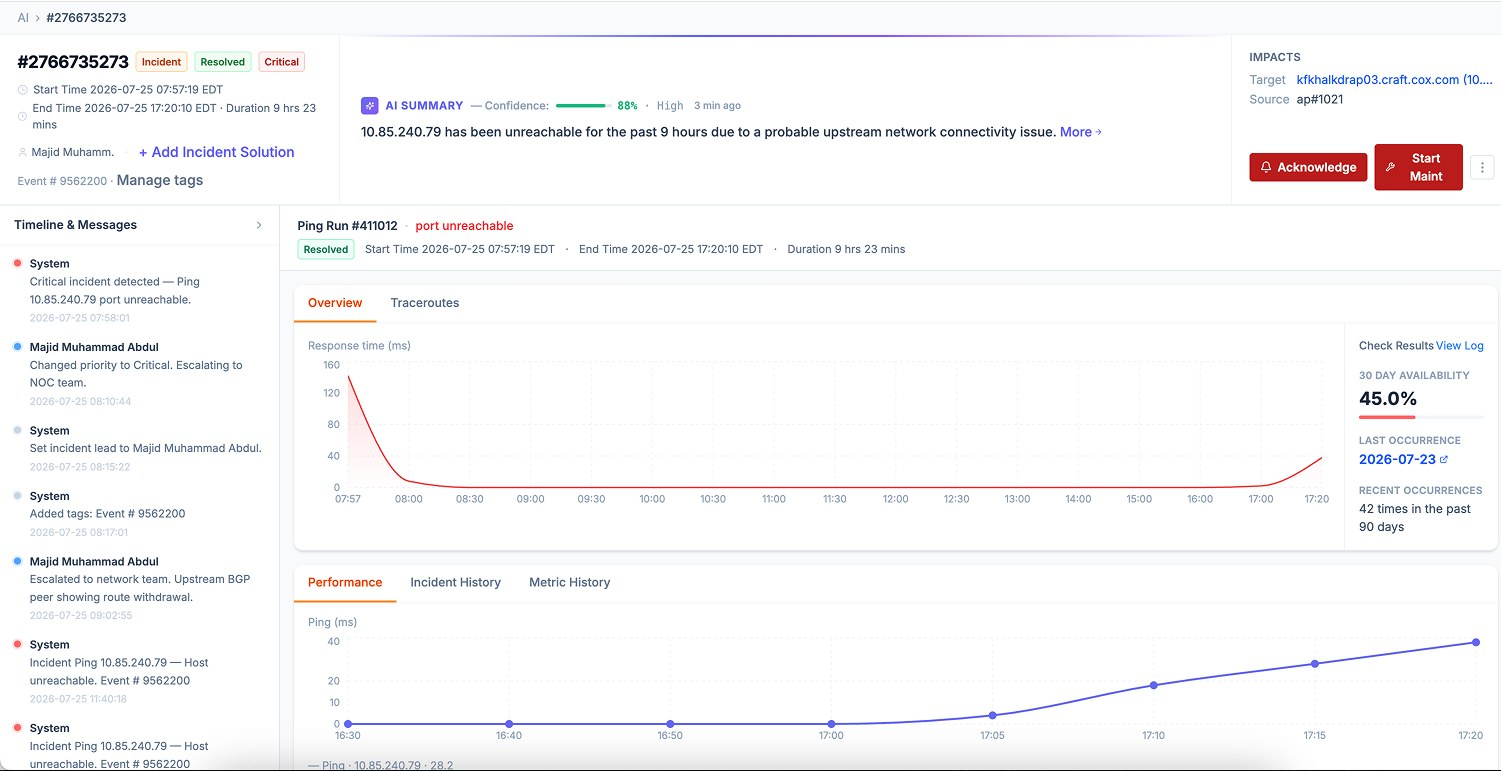
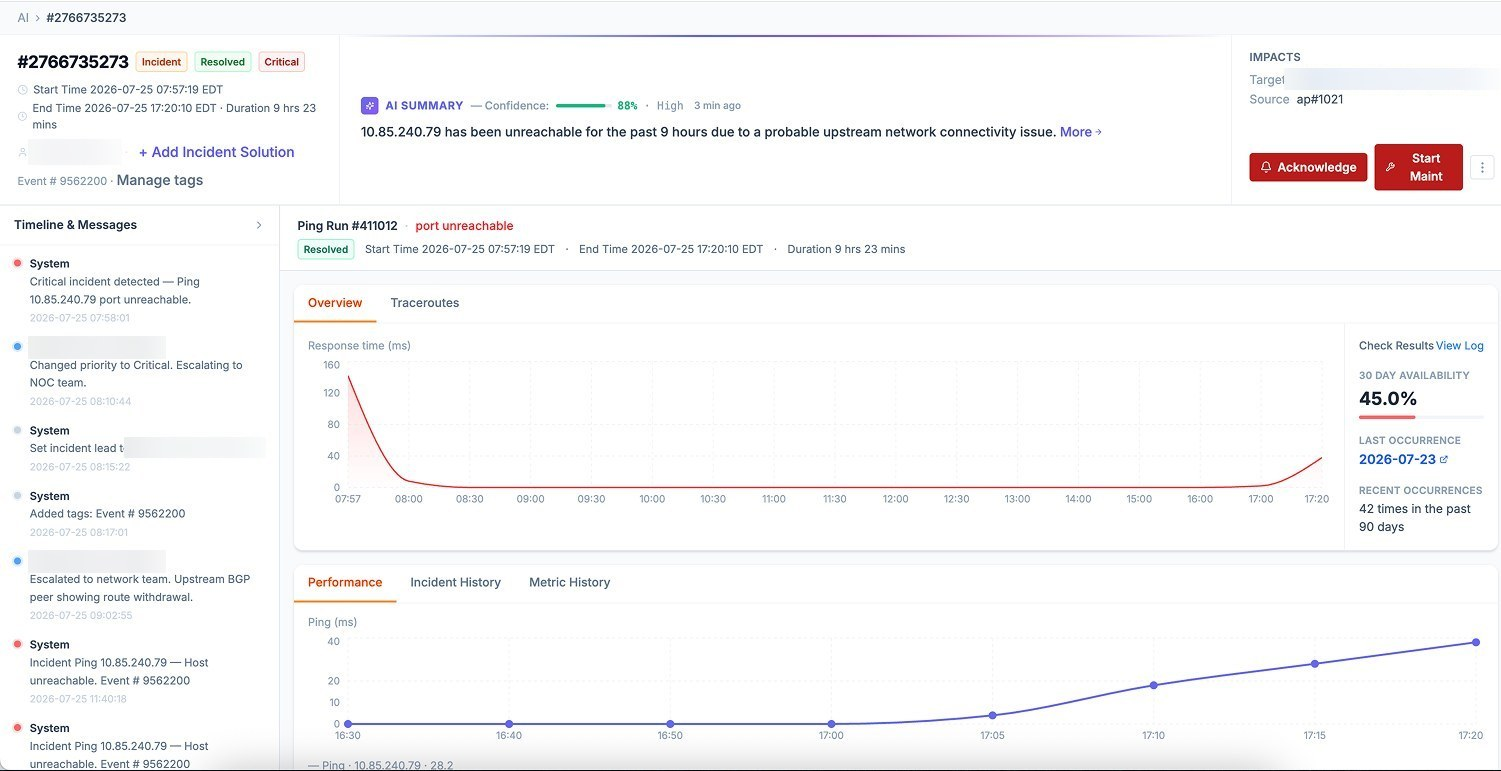
Add files via upload

diff --git a/fortimonitor-ai-incident.html b/fortimonitor-ai-incident.html
@@ -20,7 +20,7 @@
     <nav>
       <a href="index.html#work">Work</a>
       <a href="about.html">About</a>
-      <a href="Garima_Kalra_Resume.pdf" target="_blank" rel="noopener">Résumé<svg class="ext" viewBox="0 0 24 24" fill="none" stroke="currentColor" stroke-width="2" stroke-linecap="round" stroke-linejoin="round" aria-hidden="true"><path d="M18 13v6a2 2 0 0 1-2 2H5a2 2 0 0 1-2-2V8a2 2 0 0 1 2-2h6"/><polyline points="15 3 21 3 21 9"/><line x1="10" y1="14" x2="21" y2="3"/></svg></a>
+      <a href="Garima_Kalra_Resume.pdf" target="_blank" rel="noopener">Resume<svg class="ext" viewBox="0 0 24 24" fill="none" stroke="currentColor" stroke-width="2" stroke-linecap="round" stroke-linejoin="round" aria-hidden="true"><path d="M18 13v6a2 2 0 0 1-2 2H5a2 2 0 0 1-2-2V8a2 2 0 0 1 2-2h6"/><polyline points="15 3 21 3 21 9"/><line x1="10" y1="14" x2="21" y2="3"/></svg></a>
     </nav>
   </div>
 </div>
@@ -65,7 +65,7 @@
       <p>An AI Investigator embedded in the incident page that synthesizes a summary, timeline, evidence and next steps — with facts and AI hypotheses visibly separated.</p>
     </div>
     <div class="tldr-col">
-      <h4>The staff-level bet</h4>
+      <h4>The bet</h4>
       <p>Chose <strong>calibrated assistance over automation</strong>. The AI investigates; the human decides. Trust is the feature, not the risk.</p>
     </div>
   </div>
@@ -93,13 +93,16 @@
       </div>
       <div class="stat">
         <div class="n">10k<span class="u">s</span></div>
-        <div class="k">of monitored devices per<br>large customer (TJX, CSX)</div>
+        <div class="k">of monitored devices per<br>large enterprise customer</div>
       </div>
       <div class="stat">
         <div class="n">"Whack<span class="u">-a-mole"</span></div>
         <div class="k">round-robin firefighting where<br>root causes go unaddressed</div>
       </div>
     </div>
+
+    <img class="shot reveal" src="fmia-incident-volume.jpg" alt="A FortiMonitor Network Infrastructure dashboard for a single enterprise customer showing 364 active incidents, 3 resolved, and 6,764 monitored devices, with an Incidents navigation badge of 384">
+    <div class="caption reveal">A single enterprise customer's live dashboard — <strong>364 active incidents</strong> across <strong>6,764 monitored devices</strong>. This is the volume a human is expected to triage.</div>
   </div>
 </section>
 
@@ -201,6 +204,12 @@
         <p>A polished, interactive interface. Attention shifted to <strong>information hierarchy and interaction</strong> — panel size, section order, timeline presentation, confidence indicators, and how clearly AI output was distinguished from raw telemetry. The concept was assumed; adoption details surfaced.</p>
       </div>
     </div>
+
+    <img class="shot reveal" src="fmia-lofi.jpg" alt="Lo-fi prototype — two incident-page mockups with the AI Investigator panel spec'd out in plain content blocks: overview, confidence, business impact, an evidence checklist, and related incidents">
+    <div class="caption reveal">Lo-fi — the panel's content and order, spec'd in plain blocks and tested before any visual polish.</div>
+
+    <img class="shot reveal" src="fmia-hifi.jpg" alt="Hi-fi prototype — the polished incident page with the AI Investigation panel open beside it: AI summary, 88% confidence, sourced evidence cards tagged Critical / High / Info / Resolved, and recommended next steps">
+    <div class="caption reveal">Hi-fi — the polished, interactive version taken into the second round of testing.</div>
 
     <div class="read reveal">
       <p style="margin-top:34px;">The two fidelities weren't redundant — they answered different questions. The lo-fi validated <em>whether the problem was worth solving</em> before I invested in craft; the hi-fi exposed the <em>presentation and trust details</em> that would decide adoption. That's the whole argument for prototyping at two fidelities, and I got to see it play out cleanly.</p>

diff --git a/fortimonitor-ia.html b/fortimonitor-ia.html
@@ -20,7 +20,7 @@
     <nav>
       <a href="index.html#work">Work</a>
       <a href="about.html">About</a>
-      <a href="Garima_Kalra_Resume.pdf" target="_blank" rel="noopener">Résumé<svg class="ext" viewBox="0 0 24 24" fill="none" stroke="currentColor" stroke-width="2" stroke-linecap="round" stroke-linejoin="round" aria-hidden="true"><path d="M18 13v6a2 2 0 0 1-2 2H5a2 2 0 0 1-2-2V8a2 2 0 0 1 2-2h6"/><polyline points="15 3 21 3 21 9"/><line x1="10" y1="14" x2="21" y2="3"/></svg></a>
+      <a href="Garima_Kalra_Resume.pdf" target="_blank" rel="noopener">Resume<svg class="ext" viewBox="0 0 24 24" fill="none" stroke="currentColor" stroke-width="2" stroke-linecap="round" stroke-linejoin="round" aria-hidden="true"><path d="M18 13v6a2 2 0 0 1-2 2H5a2 2 0 0 1-2-2V8a2 2 0 0 1 2-2h6"/><polyline points="15 3 21 3 21 9"/><line x1="10" y1="14" x2="21" y2="3"/></svg></a>
     </nav>
   </div>
 </div>
@@ -86,12 +86,12 @@
       <p>After Fortinet acquired Panopta, the product had to scale — but <strong>navigation was the #1 user complaint:</strong> long, overlapping menus, items buried far from what they related to, and a Settings menu swollen into a 13-item junk drawer.</p>
     </div>
     <div class="tldr-col">
-      <h4>The move</h4>
-      <p><strong>Run IA as a research-led effort, in parallel with the roadmap.</strong> Re-architect navigation around what users are trying to <em>do</em>, grounding every call in card sorting and tree testing.</p>
+      <h4>What I designed</h4>
+      <p><strong>A task-based navigation structure</strong>, re-architected around what users are trying to <em>do</em> — validated with real users through card sorting and tree testing, and shipped to enterprise customers.</p>
     </div>
     <div class="tldr-col">
-      <h4>The outcome</h4>
-      <p><strong>A task-based structure that shipped to enterprise customers</strong> — validated with real users through in-product testing, and well received.</p>
+      <h4>The bet</h4>
+      <p>Ran IA as a <strong>research-led effort, in parallel with the roadmap</strong> — trusting that structure earned through testing would outlast a faster reorg by opinion.</p>
     </div>
   </div>
 </div>

diff --git a/ascendon.html b/ascendon.html
@@ -19,7 +19,7 @@
     <nav>
       <a href="index.html#work">Work</a>
       <a href="about.html">About</a>
-      <a href="Garima_Kalra_Resume.pdf" target="_blank" rel="noopener">Résumé<svg class="ext" viewBox="0 0 24 24" fill="none" stroke="currentColor" stroke-width="2" stroke-linecap="round" stroke-linejoin="round" aria-hidden="true"><path d="M18 13v6a2 2 0 0 1-2 2H5a2 2 0 0 1-2-2V8a2 2 0 0 1 2-2h6"/><polyline points="15 3 21 3 21 9"/><line x1="10" y1="14" x2="21" y2="3"/></svg></a>
+      <a href="Garima_Kalra_Resume.pdf" target="_blank" rel="noopener">Resume<svg class="ext" viewBox="0 0 24 24" fill="none" stroke="currentColor" stroke-width="2" stroke-linecap="round" stroke-linejoin="round" aria-hidden="true"><path d="M18 13v6a2 2 0 0 1-2 2H5a2 2 0 0 1-2-2V8a2 2 0 0 1 2-2h6"/><polyline points="15 3 21 3 21 9"/><line x1="10" y1="14" x2="21" y2="3"/></svg></a>
     </nav>
   </div>
 </div>
@@ -38,6 +38,24 @@
     </div>
   </div>
 </header>
+
+<!-- TL;DR -->
+<div class="tldr">
+  <div class="wrap">
+    <div class="tldr-col">
+      <h4>The problem</h4>
+      <p>A decade-old Silverlight platform had to become a modern SaaS product — at <strong>100% feature parity</strong> — while the legacy UX was punishing: users lost in nested catalog workflows, and a call center run on hand-made cheat-sheets.</p>
+    </div>
+    <div class="tldr-col">
+      <h4>What I designed</h4>
+      <p>The <strong>Offers catalog workflow</strong> and the <strong>Customer Care dashboard</strong> — rebuilt for the web with orientation, breadcrumbs, and a shared source of truth, matching every legacy capability.</p>
+    </div>
+    <div class="tldr-col">
+      <h4>The bet</h4>
+      <p>Parity didn't mean re-skinning the old flows. I treated the users' own <strong>workarounds</strong> — cheat-sheets, a taped-up error-decoder — as the brief for what to actually fix.</p>
+    </div>
+  </div>
+</div>
 
 <!-- 01 OVERVIEW -->
 <section id="overview">

diff --git a/driverconnect.html b/driverconnect.html
@@ -19,7 +19,7 @@
     <nav>
       <a href="index.html#work">Work</a>
       <a href="about.html">About</a>
-      <a href="Garima_Kalra_Resume.pdf" target="_blank" rel="noopener">Résumé<svg class="ext" viewBox="0 0 24 24" fill="none" stroke="currentColor" stroke-width="2" stroke-linecap="round" stroke-linejoin="round" aria-hidden="true"><path d="M18 13v6a2 2 0 0 1-2 2H5a2 2 0 0 1-2-2V8a2 2 0 0 1 2-2h6"/><polyline points="15 3 21 3 21 9"/><line x1="10" y1="14" x2="21" y2="3"/></svg></a>
+      <a href="Garima_Kalra_Resume.pdf" target="_blank" rel="noopener">Resume<svg class="ext" viewBox="0 0 24 24" fill="none" stroke="currentColor" stroke-width="2" stroke-linecap="round" stroke-linejoin="round" aria-hidden="true"><path d="M18 13v6a2 2 0 0 1-2 2H5a2 2 0 0 1-2-2V8a2 2 0 0 1 2-2h6"/><polyline points="15 3 21 3 21 9"/><line x1="10" y1="14" x2="21" y2="3"/></svg></a>
     </nav>
   </div>
 </div>
@@ -38,6 +38,24 @@
     </div>
   </div>
 </header>
+
+<!-- TL;DR -->
+<div class="tldr">
+  <div class="wrap">
+    <div class="tldr-col">
+      <h4>The problem</h4>
+      <p>ELD onboarding was fragmented: drivers created duplicate accounts, skipped the <strong>compliance config</strong> that keeps logs legal, and got lost pairing a device — then a passive tutorial dropped them on their own.</p>
+    </div>
+    <div class="tldr-col">
+      <h4>What I designed</h4>
+      <p>A <strong>task-driven onboarding flow</strong> that sequences setup in the right order and pulls company data automatically — replacing the static tour with guided steps.</p>
+    </div>
+    <div class="tldr-col">
+      <h4>The bet</h4>
+      <p>Sequence everything around the <strong>DOT number</strong>: enter one ID and the company details pull themselves — cutting setup tickets 50% and reaching 100% adoption.</p>
+    </div>
+  </div>
+</div>
 
 <!-- 01 OVERVIEW -->
 <section id="overview">

diff --git a/casestudy.css b/casestudy.css
@@ -103,3 +103,17 @@ em{font-style:italic;}
 
 /* consistent gap between the section eyebrow and its headline (matches AI-incident page) */
 .eyebrow{margin-bottom:16px;}
+
+/* ---------- TL;DR summary band (below hero) — identical to FortiMonitor pages ---------- */
+.tldr{background:var(--surface);border-top:1px solid var(--line);border-bottom:1px solid var(--line);}
+.tldr .wrap{display:grid;grid-template-columns:1fr 1fr 1fr;gap:0;}
+.tldr-col{padding:14px 34px 14px 0;border-right:1px solid var(--line-2);}
+.tldr-col:last-child{border-right:none;padding-right:0;padding-left:34px;}
+.tldr-col:nth-child(2){padding-left:34px;}
+.tldr-col h4{font-family:"JetBrains Mono",monospace;font-size:11.5px;font-weight:500;letter-spacing:.14em;text-transform:uppercase;color:var(--muted);margin-bottom:12px;}
+.tldr-col p{font-size:17px;line-height:1.5;margin:0;color:var(--ink-2);}
+.tldr-col p strong{color:var(--ink);}
+@media(max-width:820px){.tldr .wrap{grid-template-columns:1fr;}
+  .tldr-col{border-right:none;border-bottom:1px solid var(--line-2);padding:22px 0;}
+  .tldr-col:last-child,.tldr-col:nth-child(2){padding-left:0;}
+  .tldr-col:last-child{border-bottom:none;}}

diff --git a/about.html b/about.html
@@ -29,7 +29,7 @@
     <nav>
       <a href="index.html#work">Work</a>
       <a href="about.html">About</a>
-      <a href="Garima_Kalra_Resume.pdf" target="_blank" rel="noopener">Résumé<svg class="ext" viewBox="0 0 24 24" fill="none" stroke="currentColor" stroke-width="2" stroke-linecap="round" stroke-linejoin="round" aria-hidden="true"><path d="M18 13v6a2 2 0 0 1-2 2H5a2 2 0 0 1-2-2V8a2 2 0 0 1 2-2h6"/><polyline points="15 3 21 3 21 9"/><line x1="10" y1="14" x2="21" y2="3"/></svg></a>
+      <a href="Garima_Kalra_Resume.pdf" target="_blank" rel="noopener">Resume<svg class="ext" viewBox="0 0 24 24" fill="none" stroke="currentColor" stroke-width="2" stroke-linecap="round" stroke-linejoin="round" aria-hidden="true"><path d="M18 13v6a2 2 0 0 1-2 2H5a2 2 0 0 1-2-2V8a2 2 0 0 1 2-2h6"/><polyline points="15 3 21 3 21 9"/><line x1="10" y1="14" x2="21" y2="3"/></svg></a>
     </nav>
   </div>
 </div>

diff --git a/index.html b/index.html
@@ -19,7 +19,7 @@
     <nav>
       <a href="index.html#work">Work</a>
       <a href="about.html">About</a>
-      <a href="Garima_Kalra_Resume.pdf" target="_blank" rel="noopener">Résumé<svg class="ext" viewBox="0 0 24 24" fill="none" stroke="currentColor" stroke-width="2" stroke-linecap="round" stroke-linejoin="round" aria-hidden="true"><path d="M18 13v6a2 2 0 0 1-2 2H5a2 2 0 0 1-2-2V8a2 2 0 0 1 2-2h6"/><polyline points="15 3 21 3 21 9"/><line x1="10" y1="14" x2="21" y2="3"/></svg></a>
+      <a href="Garima_Kalra_Resume.pdf" target="_blank" rel="noopener">Resume<svg class="ext" viewBox="0 0 24 24" fill="none" stroke="currentColor" stroke-width="2" stroke-linecap="round" stroke-linejoin="round" aria-hidden="true"><path d="M18 13v6a2 2 0 0 1-2 2H5a2 2 0 0 1-2-2V8a2 2 0 0 1 2-2h6"/><polyline points="15 3 21 3 21 9"/><line x1="10" y1="14" x2="21" y2="3"/></svg></a>
     </nav>
   </div>
 </div>

diff --git a/fortimonitor-ai-incident.css b/fortimonitor-ai-incident.css
@@ -367,3 +367,6 @@ svg.signal-svg{position:absolute;inset:0;width:100%;height:100%;display:block;}
   border-top:1px solid var(--console-line);padding-top:30px;}
 .design-annot .an{border-top:none;padding:0;}
 @media(max-width:820px){.design-annot{grid-template-columns:1fr;gap:22px;}}
+
+/* image caption (light sections) */
+.caption{margin:-14px 0 34px;font-family:"JetBrains Mono",monospace;font-size:12px;letter-spacing:.03em;color:var(--muted);line-height:1.5;}
